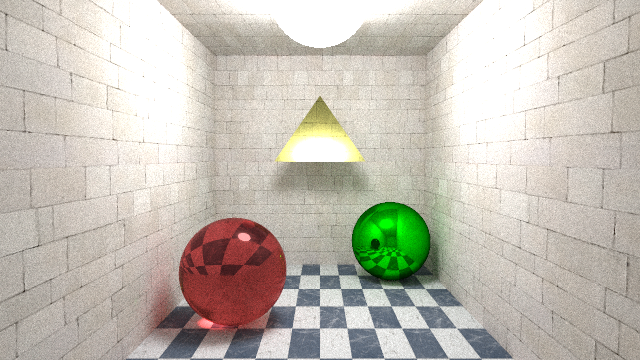
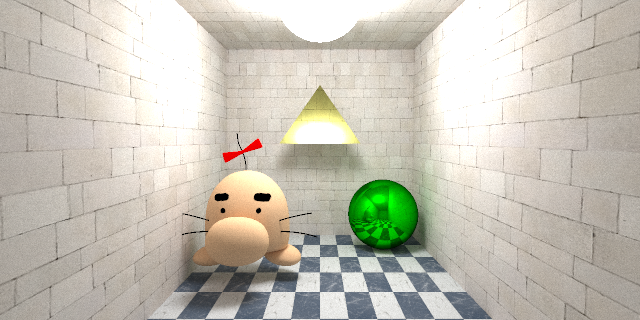
画像差し替え。

diff --git a/src/src/s3d_app.cpp b/src/src/s3d_app.cpp
@@ -148,8 +148,8 @@ IMaterial* g_pMaterials[] = {
 
 // レンダリングするシーンデータ
 Sphere g_Spheres[] = {
-    Sphere( 16.5f,  Vector3( 20.0f, 16.5f,  27.0f ), g_pMaterials[6] ),    // 鏡
-    Sphere( 16.5f,  Vector3( 77.0f, 16.5f,  78.0f ), g_pMaterials[5] ),    // 水晶.
+    Sphere( 16.5f,  Vector3( 20.0f, 16.5f,  27.0f ), g_pMaterials[5] ),    // 水晶
+    Sphere( 16.5f,  Vector3( 77.0f, 16.5f,  78.0f ), g_pMaterials[6] ),    // 鏡.
     Sphere( 15.0f,  Vector3( 50.0f, 100.0f, 81.6f ), g_pMaterials[2] ),    // 照明
 };
 
@@ -250,25 +250,6 @@ IShape* g_pBVH = nullptr;
 ////////////////////////////////////////////////////////////////////////////////////
 // Functions
 ////////////////////////////////////////////////////////////////////////////////////
-
-//----------------------------------------------------------------------------------
-//! @brief      ロシアンルーレットに用いる閾値を求めます.
-//----------------------------------------------------------------------------------
-S3D_INLINE
-f32 ComputeThreshold( const Color& value )
-{
-    f32 result = value.x;
-    result = ( value.y > result ) ? value.y : result;
-    result = ( value.z > result ) ? value.z : result;
-
-    // 無限ループ対策
-    result = Min( result, 0.99f );
-
-    // ゼロ除算対策.
-    result = Max( result, FLT_EPSILON );
-
-    return result;
-}
 
 //----------------------------------------------------------------------------------
 //! @brief      シーンとの交差判定をおこないます.
@@ -659,11 +640,7 @@ void App::Run( const Config& config )
     // かっこ悪いけど, グローバルに格納.
     g_Config = config;
 
-    //const char filename[] = "res/mesh/sphere/sphere.smd";
     const char filename[] = "res/mesh/dosei/dosei.smd";
-    //const char filename[] = "res/mesh/dia/dia.smd";
-    //const char filename[] = "res/mesh/applejack/applejack.smd";
-    //const char filename[] = "res/mesh/box/box.smd";
     if ( !g_Mesh.LoadFromFile( filename ) )
     {
         printf_s( "Error : Load Mesh Failed.\n" );

diff --git a/src/src/main.cpp b/src/src/main.cpp
@@ -36,14 +36,14 @@ int main( int argc, char **argv )
         // 本番用.
         config.Width         = 1024;
         config.Height        = 576;
-        config.NumSamples    = 8192;
+        config.NumSamples    = 4096;
         config.NumSubSamples = 2;
         config.MaxDepth      = 32;
     #else
         // デバッグ用.
-        config.Width         = 640;
-        config.Height        = 320;
-        config.NumSamples    = 1024;
+        config.Width         = 320;
+        config.Height        = 180;
+        config.NumSamples    = 512;
         config.NumSubSamples = 2;
         config.MaxDepth      = 32;
     #endif
